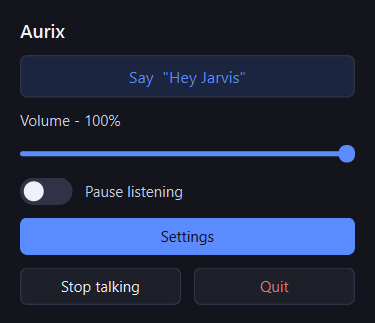
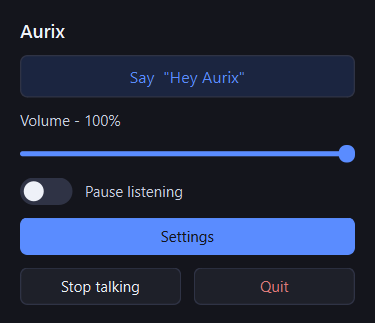
It answers to Hey Aurix now

Changed region(s): [[0.44, 0.2167, 0.6453, 0.2786], [0.3227, 0.2167, 0.4107, 0.2786]]

diff --git a/aurix/config.py b/aurix/config.py
@@ -1,6 +1,6 @@
 """Default settings. Anything the user can change is overridden by settings.py."""
 
-VERSION = "0.3.2"
+VERSION = "0.3.3"
 
 # --- Microphone ---
 MICROPHONE = None  # None means the Windows default device
@@ -190,9 +190,12 @@ VOICE = "af_heart"
 KOKORO_LANGUAGE = "en-us"
 
 # --- The wake word ---
-WAKE_MODEL = "runtime/wakeword/hey_jarvis_v0.1.onnx"
-WAKE_WORD_NAME = "Hey Jarvis"  # change with WAKE_MODEL
-WAKE_THRESHOLD = 0.5
+WAKE_MODEL = "runtime/wakeword/hey_aurix.onnx"
+WAKE_WORD_NAME = "Hey Aurix"  # change with WAKE_MODEL
+# Out of hey_aurix_eval.json, not guessed. Trained on 17.85 hours: 0.11 gets
+# 98.2% of them with about one false wake every six hours, and 0.5 gets 92.5%
+# with none at all. Tunable live on the Audio tab if it fires too eagerly.
+WAKE_THRESHOLD = 0.11
 WAKE_CHUNK = 1280
 WAKE_MELSPEC = "runtime/wakeword/melspectrogram.onnx"
 WAKE_EMBEDDING = "runtime/wakeword/embedding_model.onnx"

diff --git a/README.md b/README.md
@@ -16,7 +16,7 @@ then **Run anyway**.
 
 Sits in the system tray as a blue dot.
 
-- Say **"Hey Jarvis"**, then ask.(Jarvis is still a temporary wake word until I can train "Aurix")
+- Say **"Hey Aurix"**, then ask.
 - Or press **Ctrl + Alt + G**.
 - Click the tray icon for the quick panel, or **Settings** for everything else.
 
